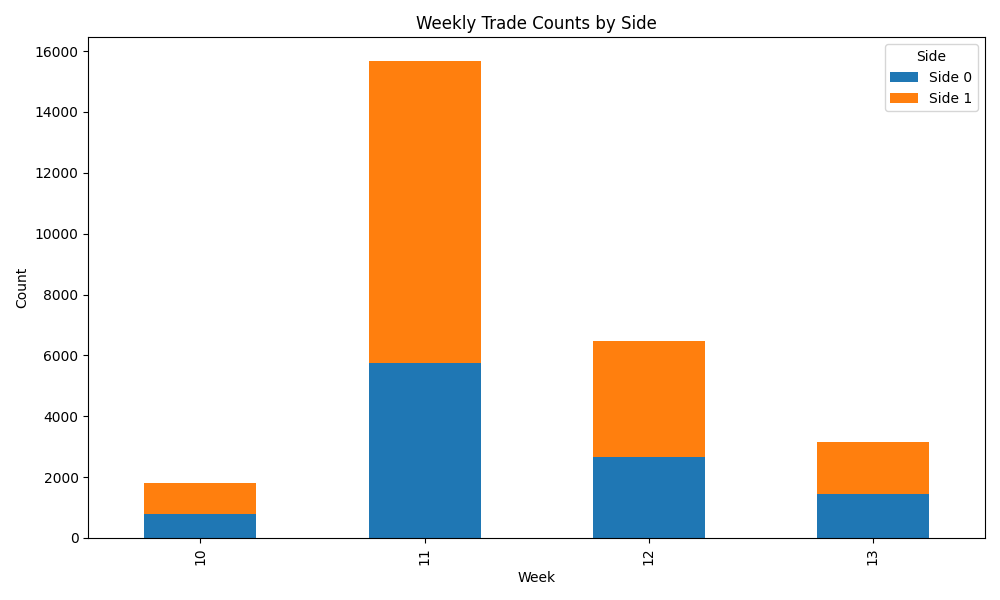
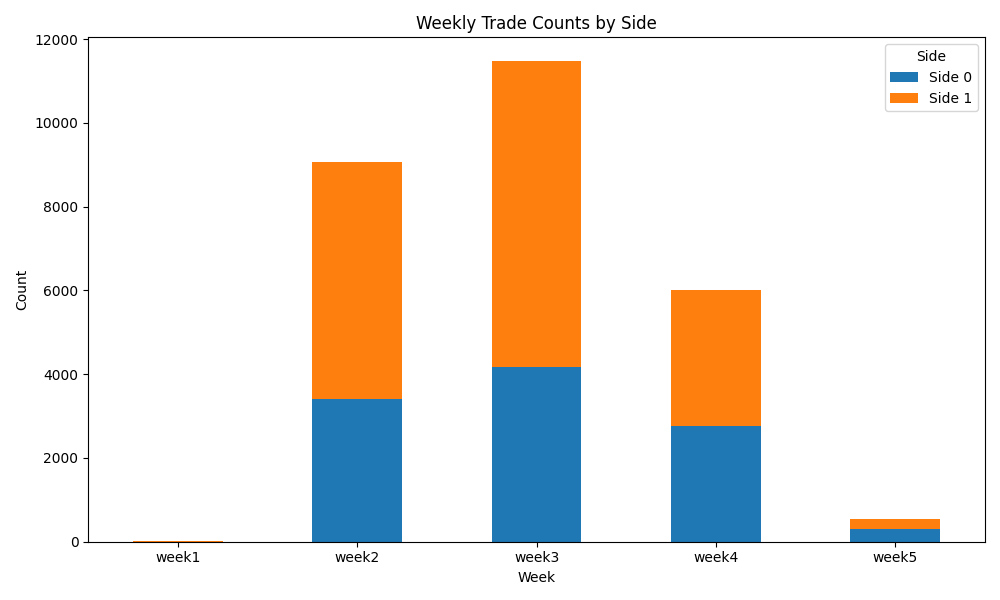
Fix q_4() to display 5 weeks for March with week1-week5 labels
Changed from ISO week numbers to month-based weeks:
- Week 1: March 1-7
- Week 2: March 8-14
- Week 3: March 15-21
- Week 4: March 22-28
- Week 5: March 29-31

X-axis labels now show 'week1', 'week2', etc. instead of '10', '11', etc.

diff --git a/lab-db-10-question.py b/lab-db-10-question.py
@@ -57,9 +57,10 @@ def q_4():
     # Query for March 2024
     march_data = df.query('timestamp >= "2024-03-01" and timestamp < "2024-04-01"')
 
-    # Add week column
+    # Add week column based on day of month (1-7: week1, 8-14: week2, etc.)
     march_data = march_data.copy()
-    march_data['week'] = march_data['timestamp'].dt.isocalendar().week
+    march_data['day'] = march_data['timestamp'].dt.day
+    march_data['week'] = ((march_data['day'] - 1) // 7) + 1
 
     # Count by week and side
     weekly_side_counts = march_data.groupby(['week', 'side']).size().unstack(fill_value=0)
@@ -67,6 +68,9 @@ def q_4():
     # Create stacked bar chart
     fig, ax = plt.subplots(figsize=(10, 6))
     weekly_side_counts.plot(kind='bar', stacked=True, ax=ax)
+
+    # Set x-axis labels to 'week1', 'week2', etc.
+    ax.set_xticklabels([f'week{int(w)}' for w in weekly_side_counts.index], rotation=0)
 
     ax.set_xlabel('Week')
     ax.set_ylabel('Count')
